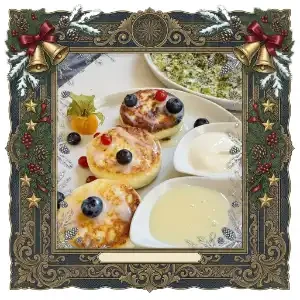
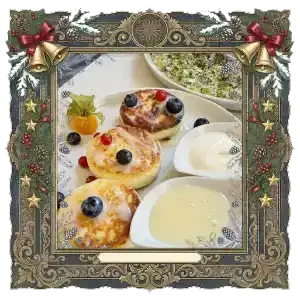
Buta Cafe: voucher button in navigator card, brighter framed photo
- Navigator card: "Gutschein holen" opens the voucher "10 % auf Ihre Bestellung" (code TT-DEMO-BUTA-10)
- Framed photo replaced with the brightened version

Claude-Session: https://claude.ai/code/session_01VnKUZ1TMKqyTjH4sMzXnbz

diff --git a/index.html b/index.html
@@ -2825,8 +2825,30 @@ function openMiaVoucher() {
   document.getElementById('miaVoucher').classList.add('open');
 }
 function closeMiaVoucher() { document.getElementById('miaVoucher').classList.remove('open'); }
+// Buta Cafe: ваучер «10 % auf Ihre Bestellung» в том же окне, код TT-DEMO-BUTA-10
+const BUTA_VOUCHER = {
+  de: { brand: 'Turret Tales · Gutschein', offer: '10 % auf Ihre Bestellung', valid: 'Gültig bis 31.12.2026 · Beispiel', close: 'Schließen' },
+  en: { brand: 'Turret Tales · Voucher', offer: '10% off your order', valid: 'Valid until 31 Dec 2026 · Example', close: 'Close' },
+  fr: { brand: 'Turret Tales · Bon', offer: '10 % sur votre commande', valid: 'Valable jusqu’au 31.12.2026 · Exemple', close: 'Fermer' },
+  nl: { brand: 'Turret Tales · Tegoedbon', offer: '10 % op uw bestelling', valid: 'Geldig tot 31.12.2026 · Voorbeeld', close: 'Sluiten' },
+  ru: { brand: 'Turret Tales · Купон', offer: '10 % на ваш заказ', valid: 'Действителен до 31.12.2026 · Пример', close: 'Закрыть' },
+};
+function openButaVoucher() {
+  const l = BUTA_VOUCHER[xmasLang] ? xmasLang : 'en';
+  const t = BUTA_VOUCHER[l];
+  document.getElementById('mvBrand').textContent = t.brand;
+  document.getElementById('mvOffer').textContent = t.offer;
+  document.getElementById('mvValid').textContent = t.valid;
+  document.getElementById('mvClose').textContent = t.close;
+  document.getElementById('mvCode').textContent = 'TT-DEMO-BUTA-10';
+  const qr = document.getElementById('mvQr');
+  qr.innerHTML = '';
+  try { new QRCode(qr, { text: 'TT-DEMO-BUTA-10', width: 180, height: 180, colorDark: '#3a2a1a', colorLight: '#ffffff' }); } catch (e) { qr.textContent = 'TT-DEMO-BUTA-10'; }
+  document.getElementById('miaVoucher').classList.add('open');
+}
 document.addEventListener('click', e => {
   if (e.target.closest('[data-mia-voucher]')) { openMiaVoucher(); return; }
+  if (e.target.closest('[data-buta-voucher]')) { openButaVoucher(); return; }
   if (e.target.closest('#mvClose') || e.target.id === 'miaVoucher') closeMiaVoucher();
 });
 // Zweites Fenster: Souvenirs und Bücher (Reuffel), alle 3 Minuten
@@ -3241,7 +3263,8 @@ function renderFood() {
       const t = BUTA_CARD.text[xmasLang] || BUTA_CARD.text.en;
       return `<div class="route-card xmas-card">${kicker}<div class="buta-grid">` +
         `<div class="buta-info"><h3 class="buta-name">${BUTA_CARD.title}</h3>` +
-        `<p class="xmas-meta" style="margin:0 0 6px;opacity:.85">${BUTA_CARD.place}</p><p style="margin:0">${t}</p></div>` +
+        `<p class="xmas-meta" style="margin:0 0 6px;opacity:.85">${BUTA_CARD.place}</p><p style="margin:0">${t}</p>` +
+        `<button type="button" class="btn solid" data-buta-voucher style="margin-top:8px">${{ de: 'Gutschein holen', en: 'Get voucher', fr: 'Obtenir le bon', nl: 'Kortingsbon ophalen', ru: 'Получить купон' }[xmasLang] || 'Get voucher'}</button></div>` +
         `<img class="buta-frame" src="buta-frame.webp" alt="Buta Cafe" loading="lazy">` +
         `</div><div class="buta-more">` +
         ['01','03','07','08'].map(n => `<div class="buta-sq">${sq(n)}</div>`).join('') +
